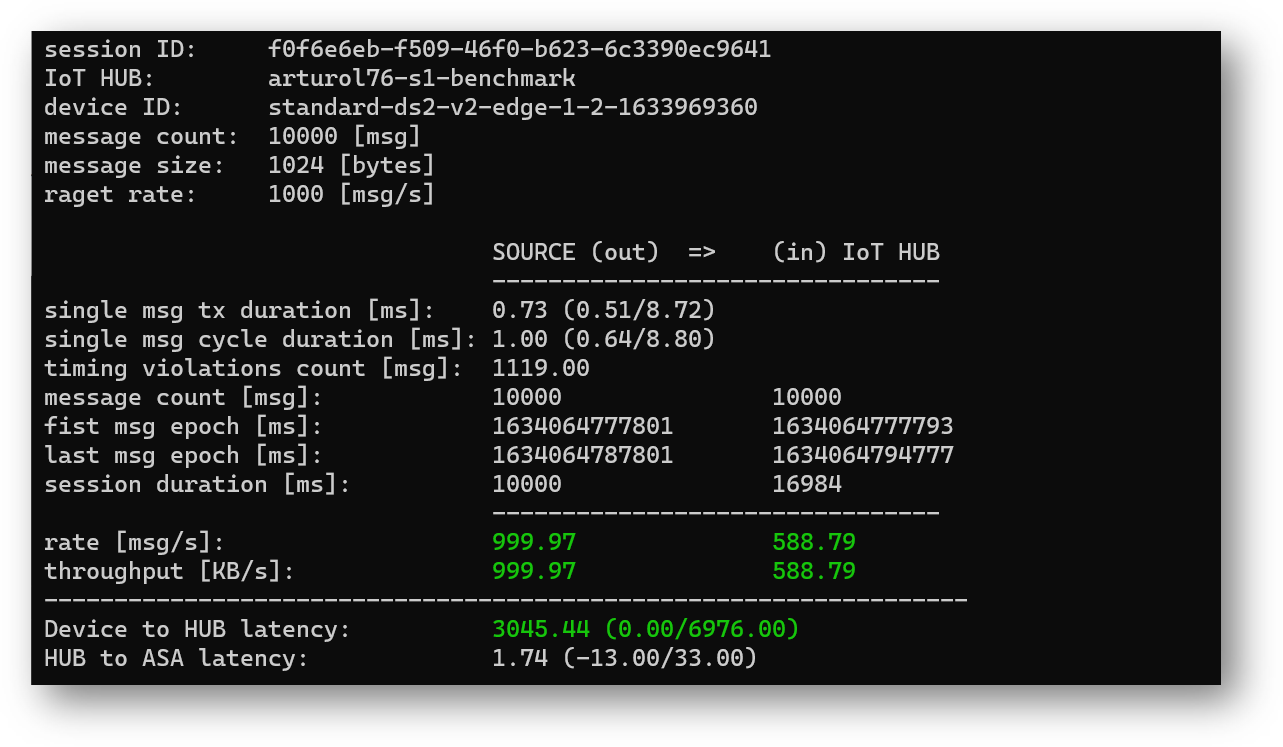
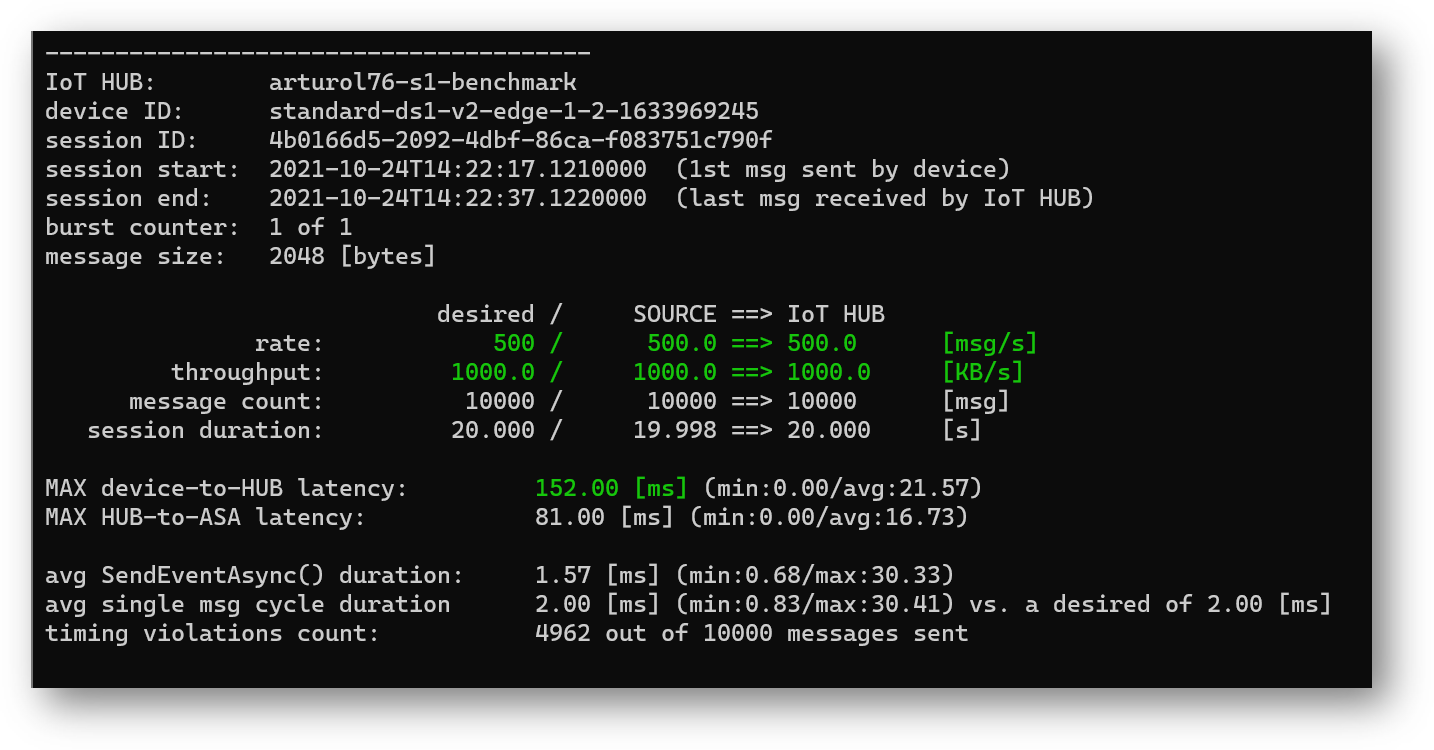
changed to match new console output

Changed region(s): [[0.0, 0.0308, 0.9665, 0.9237]]

diff --git a/README.md b/README.md
@@ -22,9 +22,9 @@ The framework includes:
 
 An example:
 ```bash
-dotnet run -- --payload-length=1024 --burst-length=10000 target-rate=1000
+dotnet run -- --payload-length=2048 --burst-length=10000 target-rate=500
 ```
-![](/images/simple-example-annotations.png)
+![](/images/simple-example.png)
 
 # Getting started
 Pre-requisites:
@@ -78,14 +78,14 @@ dotnet run -p ./source/IotEdgePerf.ConsoleApp -- \
   --eh-conn-string="Endpoint=sb://xyz.servicebus.windows.net/;SharedAccessKeyName=RootManageSharedAccessKey;SharedAccessKey=xxx" \
   --iot-conn-string="HostName=xxx;SharedAccessKeyName=service;SharedAccessKey=xxx" \
   --device-id="myEdgeDevice" \
-  --payload-length=1024 \
+  --payload-length=2048 \
   --burst-length=10000 \
-  --target-rate=2000 \
+  --target-rate=500 \
   -o test.csv
 ```
 
 And here's the result:
-![](./images/example-10Kmsg-1Krate.png)
+![](./images/simple-example.png)
 
 To make the command line command shorter, some parameters can laso be passed over via ENV variables:
 ```bash
